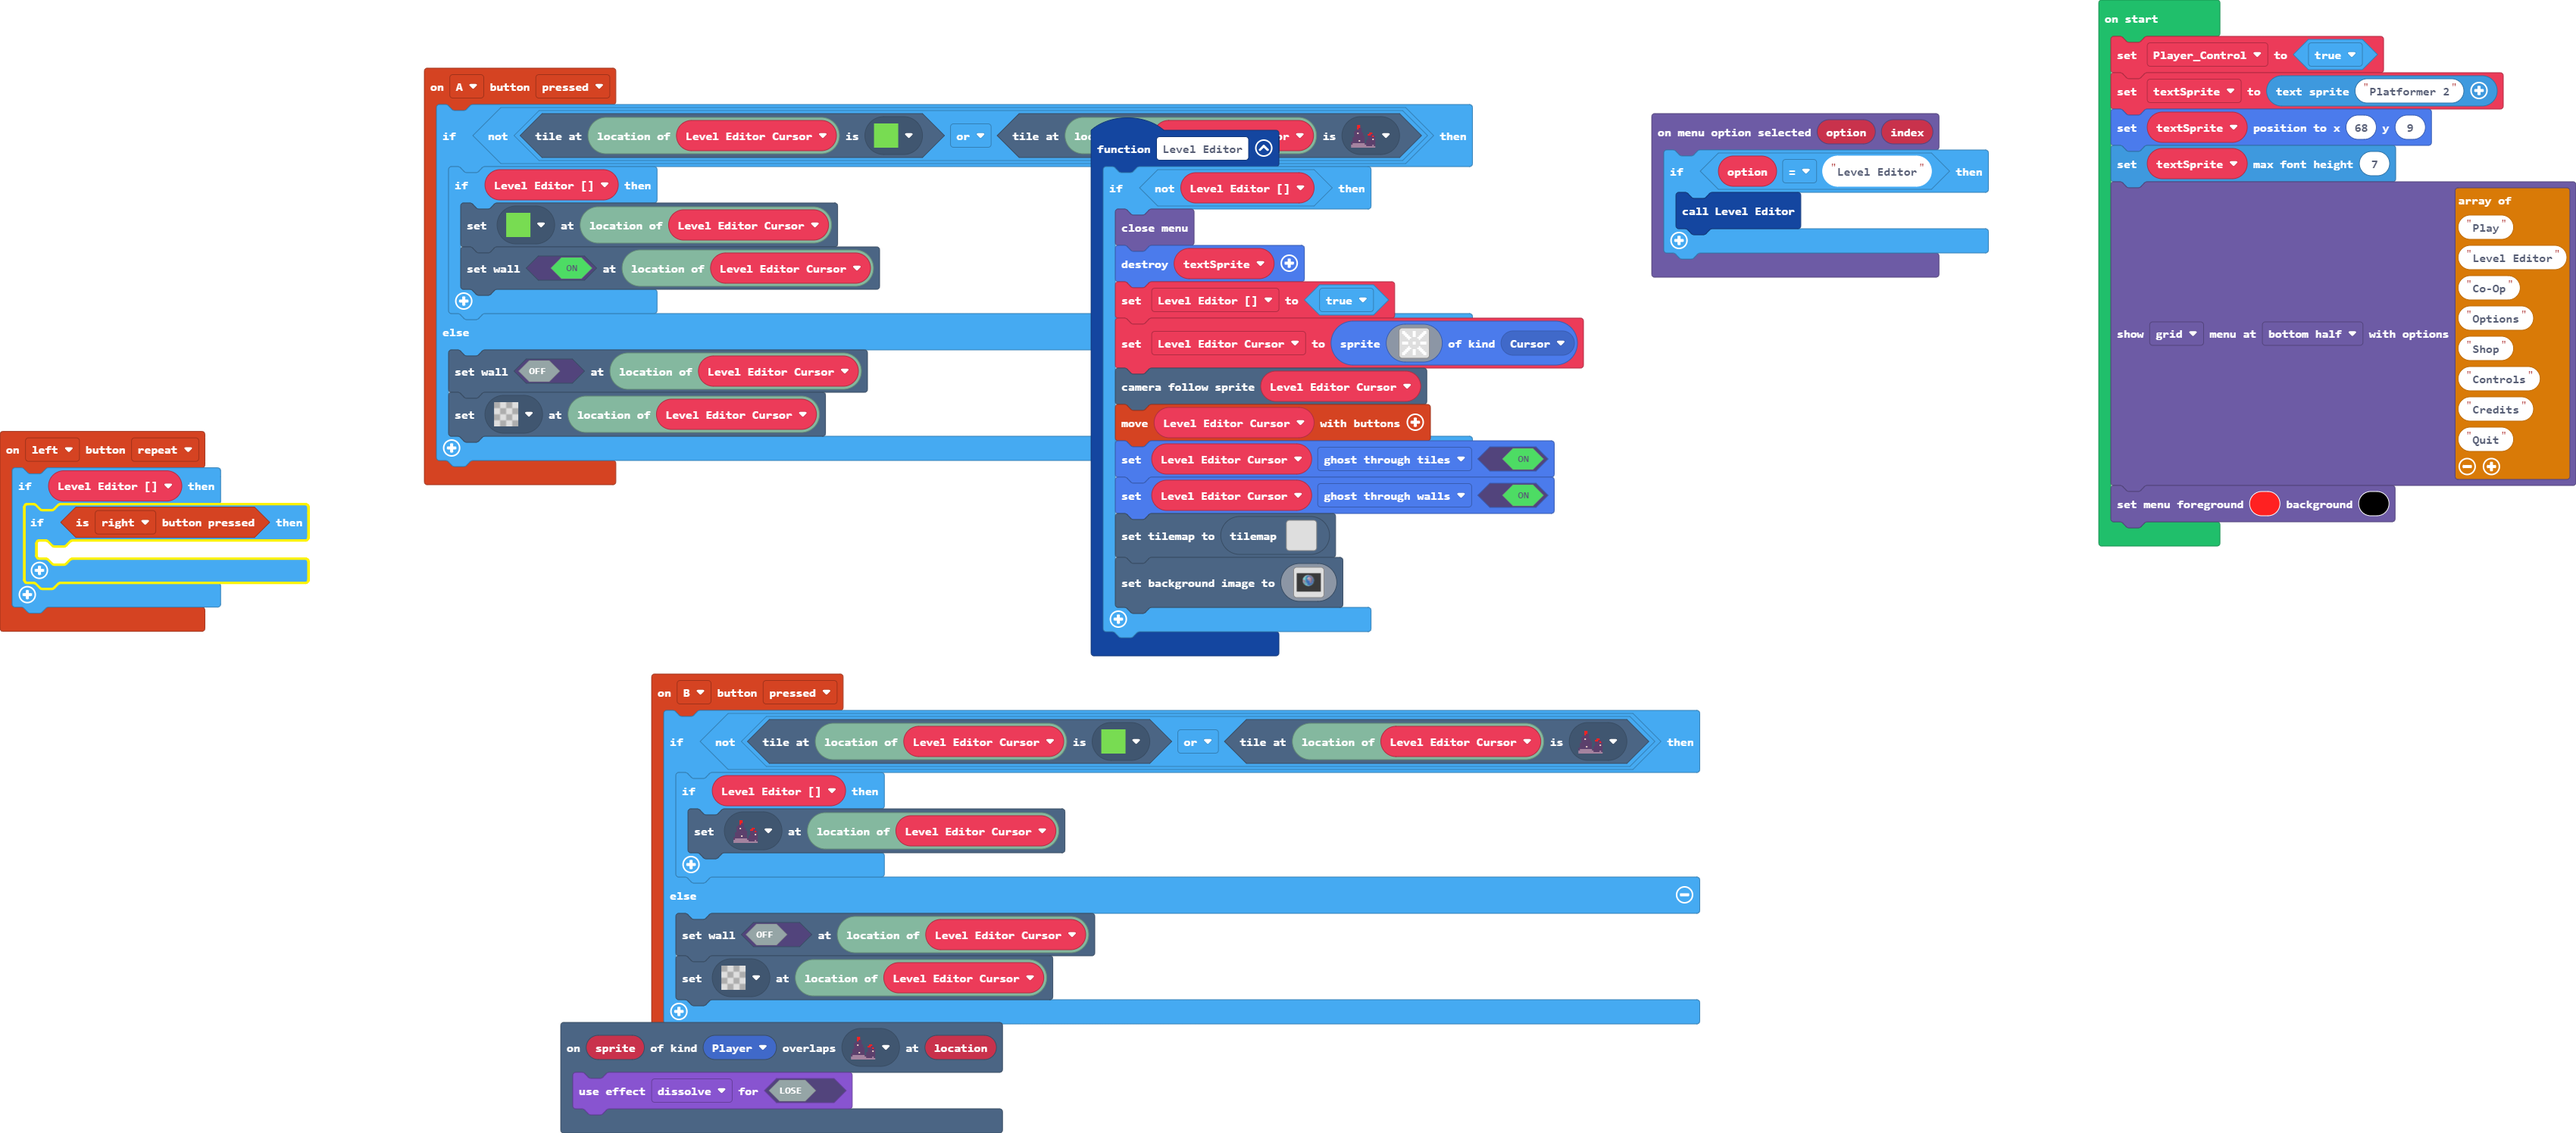
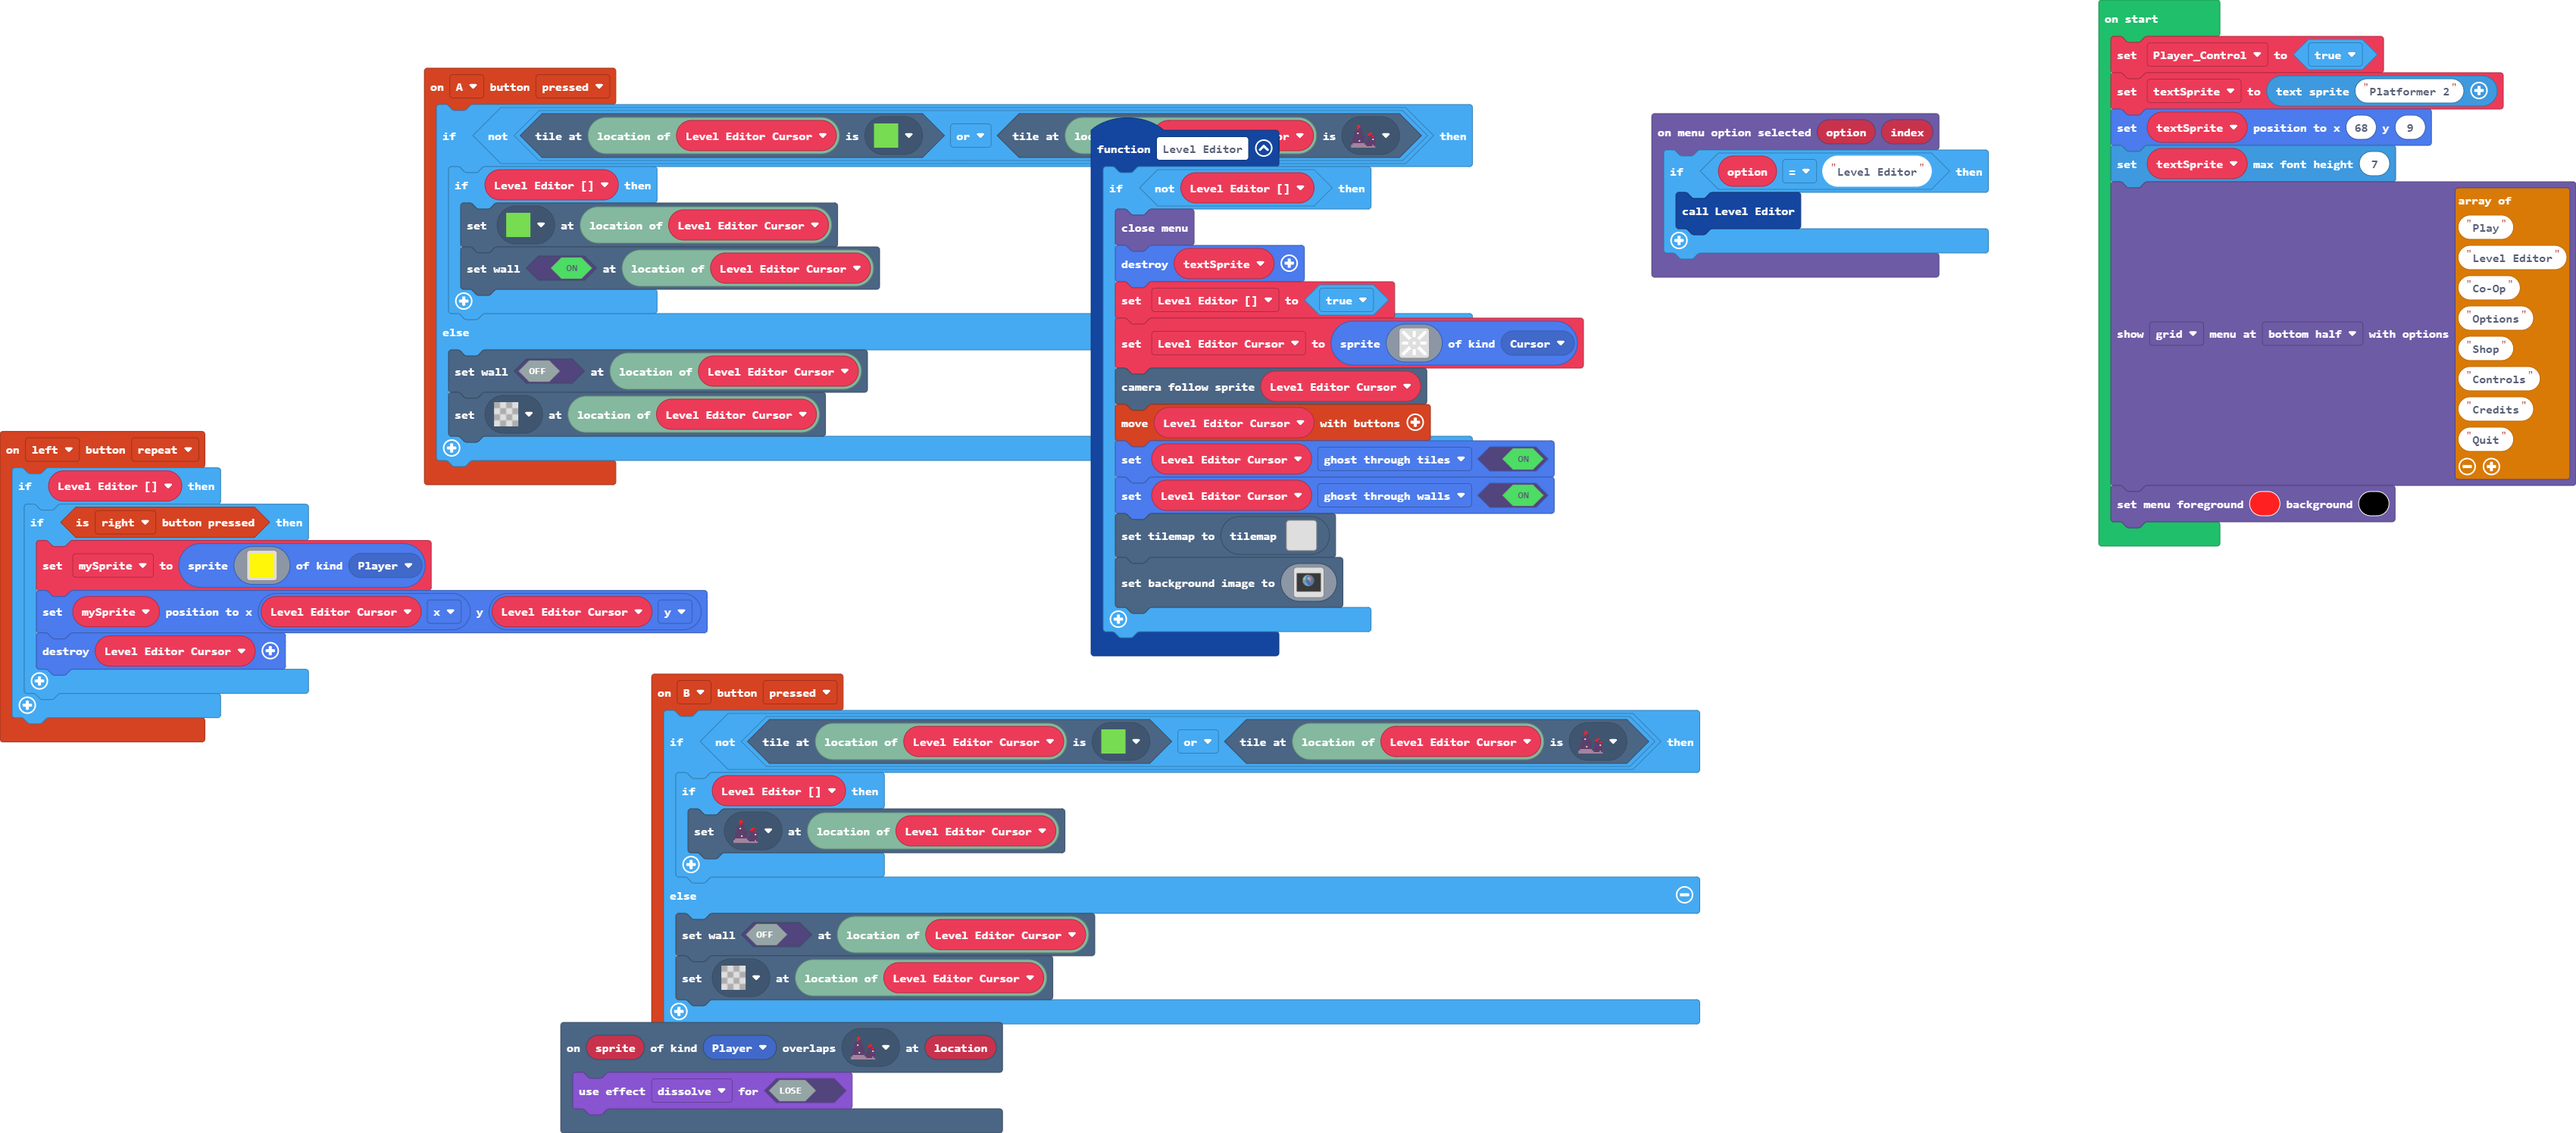
Update main.blocks, main.ts

Changed region(s): [[0.0, 0.4612, 0.2806, 0.6765]]

diff --git a/main.ts b/main.ts
@@ -186,10 +186,30 @@ blockMenu.onMenuOptionSelected(function (option, index) {
 controller.left.onEvent(ControllerButtonEvent.Repeated, function () {
     if (Level_Editor_) {
         if (controller.right.isPressed()) {
-        	
+            mySprite = sprites.create(img`
+                5 5 5 5 5 5 5 5 5 5 5 5 5 5 5 5 
+                5 5 5 5 5 5 5 5 5 5 5 5 5 5 5 5 
+                5 5 5 5 5 5 5 5 5 5 5 5 5 5 5 5 
+                5 5 5 5 5 5 5 5 5 5 5 5 5 5 5 5 
+                5 5 5 5 5 5 5 5 5 5 5 5 5 5 5 5 
+                5 5 5 5 5 5 5 5 5 5 5 5 5 5 5 5 
+                5 5 5 5 5 5 5 5 5 5 5 5 5 5 5 5 
+                5 5 5 5 5 5 5 5 5 5 5 5 5 5 5 5 
+                5 5 5 5 5 5 5 5 5 5 5 5 5 5 5 5 
+                5 5 5 5 5 5 5 5 5 5 5 5 5 5 5 5 
+                5 5 5 5 5 5 5 5 5 5 5 5 5 5 5 5 
+                5 5 5 5 5 5 5 5 5 5 5 5 5 5 5 5 
+                5 5 5 5 5 5 5 5 5 5 5 5 5 5 5 5 
+                5 5 5 5 5 5 5 5 5 5 5 5 5 5 5 5 
+                5 5 5 5 5 5 5 5 5 5 5 5 5 5 5 5 
+                5 5 5 5 5 5 5 5 5 5 5 5 5 5 5 5 
+                `, SpriteKind.Player)
+            mySprite.setPosition(Level_Editor_Cursor.x, Level_Editor_Cursor.y)
+            sprites.destroy(Level_Editor_Cursor)
         }
     }
 })
+let mySprite: Sprite = null
 let Level_Editor_ = false
 let Level_Editor_Cursor: Sprite = null
 let textSprite: TextSprite = null
